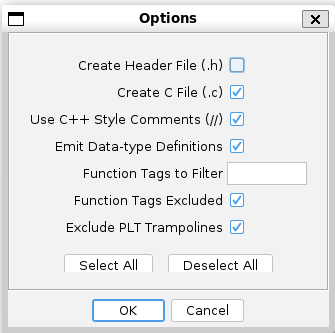
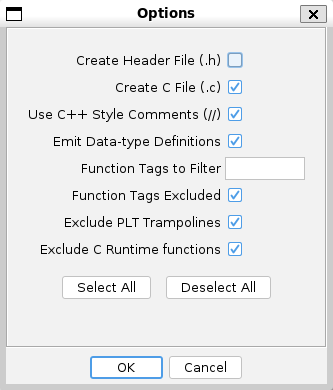
merge: master->pltExclude

diff --git a/Ghidra/Features/Base/src/main/help/help/topics/ExporterPlugin/exporter.htm b/Ghidra/Features/Base/src/main/help/help/topics/ExporterPlugin/exporter.htm
@@ -287,10 +287,12 @@
             functions with a tag that matches any in the <B>Function Tags to Filter</B> list.   
             Deselect to include in export only functions with a tag that matches any in the list.
             </LI>
-
             <LI><B>Exclude PLT Trampolines/Included</B> - Select to exclude PLT trampolines from export.   
               Deselect to include PLT trampolines in export.
-              </LI>
+            </LI>
+            <LI><B>Exclude C Runtime functions/Included</B> - Select to exclude C Runtime library functions from export.   
+              Deselect to include C Runtime functons in export.
+            </LI>
           </UL>
         </BLOCKQUOTE>
 

diff --git a/Ghidra/Features/Decompiler/src/main/java/ghidra/app/util/exporter/CppExporter.java b/Ghidra/Features/Decompiler/src/main/java/ghidra/app/util/exporter/CppExporter.java
@@ -50,7 +50,8 @@ public class CppExporter extends Exporter {
 	public static final String FUNCTION_TAG_FILTERS = "Function Tags to Filter";
 	public static final String FUNCTION_TAG_EXCLUDE = "Function Tags Excluded";
 	public static final String PLT_TRAMPOLINES_EXCLUDE = "Exclude PLT Trampolines";
-	
+	public static final String C_RUNTIME_EXCLUDE = "Exclude C Runtime functions";
+
 	private static String EOL = System.getProperty("line.separator");
 
 	private boolean isCreateHeaderFile = false;
@@ -58,6 +59,7 @@ public class CppExporter extends Exporter {
 	private boolean isUseCppStyleComments = true;
 	private boolean emitDataTypeDefinitions = true;
 	private boolean excludePLTTrampolines = true;
+	private boolean excludeCRuntime = true;
 	private String tagOptions = "";
 
 	private Set<FunctionTag> functionTagSet = new HashSet<>();
@@ -215,10 +217,21 @@ public class CppExporter extends Exporter {
 		}
 		return false;
 	}
+
+	private static final String CRT_PREFIX = "_";
+
+	private boolean isCRTFunction(Function function) {
+		String functionName = function.getName();
+		return functionName.startsWith(CRT_PREFIX);
+	}
 	
 	private boolean excludeFunction(Function currentFunction) {
 
 		if (excludePLTTrampolines && isPLTTrampoline(currentFunction)) {
+			return true;
+		}
+
+		if (excludeCRuntime && isCRTFunction(currentFunction)) {
 			return true;
 		}
 		
@@ -379,6 +392,7 @@ public class CppExporter extends Exporter {
 		list.add(new Option(FUNCTION_TAG_FILTERS, tagOptions));
 		list.add(new Option(FUNCTION_TAG_EXCLUDE, Boolean.valueOf(excludeMatchingTags)));
 		list.add(new Option(PLT_TRAMPOLINES_EXCLUDE, Boolean.valueOf(excludePLTTrampolines)));
+		list.add(new Option(C_RUNTIME_EXCLUDE, Boolean.valueOf(excludeCRuntime)));
 		return list;
 	}
 
@@ -407,6 +421,9 @@ public class CppExporter extends Exporter {
 				}
 				else if (optName.equals(PLT_TRAMPOLINES_EXCLUDE)) {
 					excludePLTTrampolines = ((Boolean) option.getValue()).booleanValue();
+				}
+				else if (optName.equals(C_RUNTIME_EXCLUDE)) {
+					excludeCRuntime = ((Boolean) option.getValue()).booleanValue();
 				}
 				else {
 					throw new OptionException("Unknown option: " + optName);
